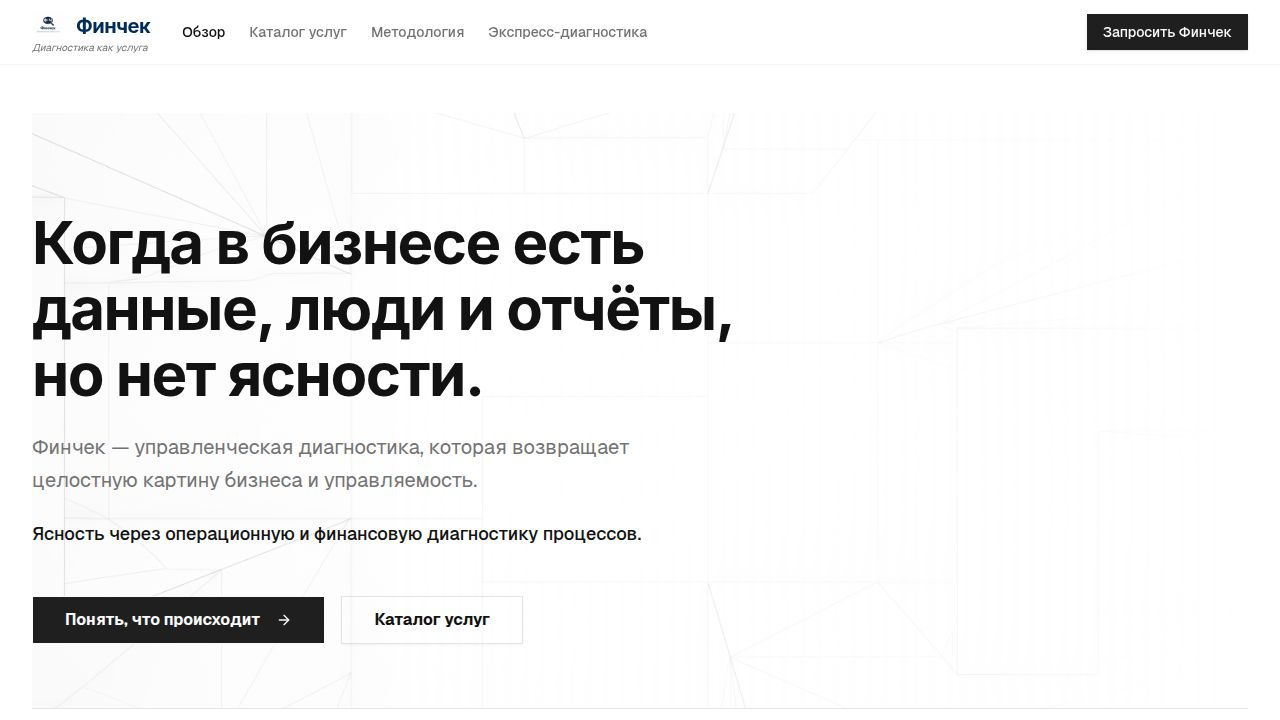
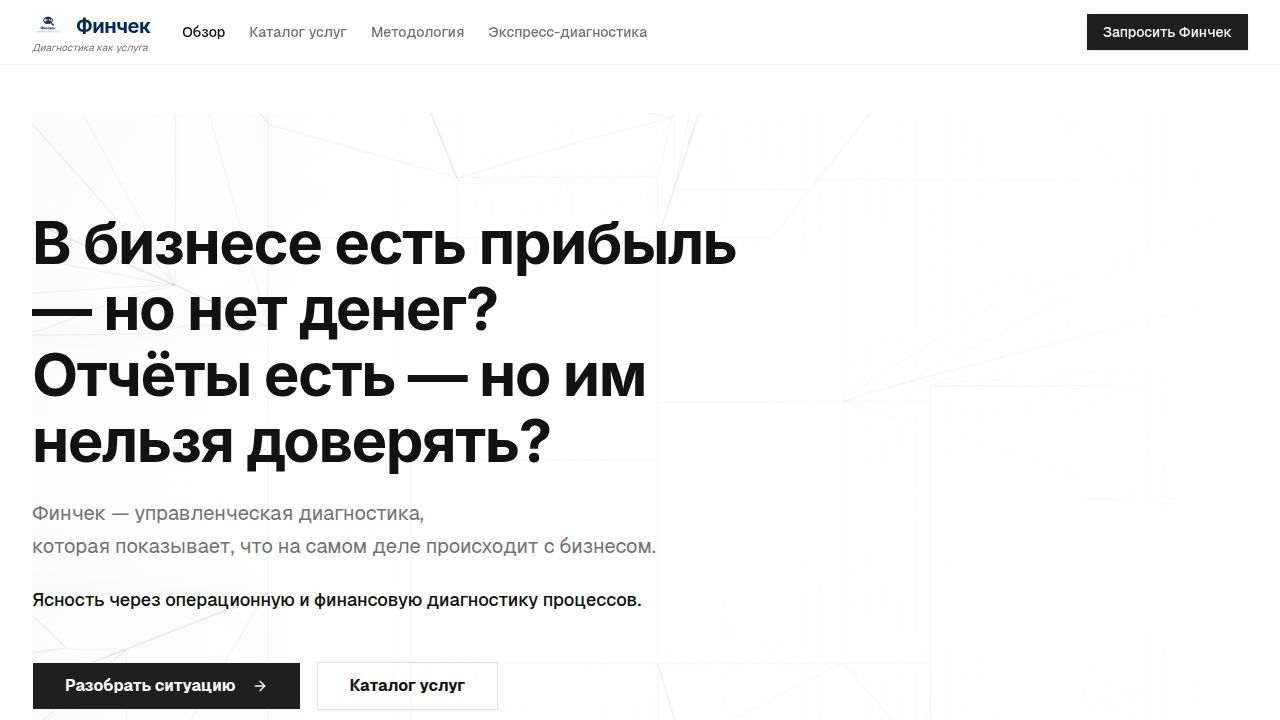
Update website's main page content and structure for better clarity
Modify the Home page by updating hero section text, CTA button, symptom list, and rearranging content blocks to enhance user understanding and engagement.

Replit-Commit-Author: Agent
Replit-Commit-Session-Id: 37a254d2-f206-4e6f-9d23-69abc5b6ef7e
Replit-Commit-Checkpoint-Type: full_checkpoint
Replit-Commit-Event-Id: 61114207-7028-41ed-9d0c-319ad99fae61
Replit-Commit-Screenshot-Url: https://storage.googleapis.com/screenshot-production-us-central1/8d6f941a-e7a3-48e3-bfbf-0671b2a4fc34/37a254d2-f206-4e6f-9d23-69abc5b6ef7e/rhoAu9e
Replit-Helium-Checkpoint-Created: true

diff --git a/client/src/pages/Home.tsx b/client/src/pages/Home.tsx
@@ -52,29 +52,35 @@ export default function Home() {
         />
         <div className="max-w-3xl flex flex-col gap-6">
           <h1 className="text-4xl md:text-6xl font-bold tracking-tight text-balance leading-[1.1]">
-            Когда в бизнесе есть данные, люди и отчёты, <br/>но нет ясности.
+            В бизнесе есть прибыль — но нет денег? <br/>Отчёты есть — но им нельзя доверять?
           </h1>
           <p className="text-xl text-muted-foreground max-w-2xl leading-relaxed">
-            Финчек — управленческая диагностика, которая возвращает целостную картину бизнеса и управляемость.
+            Финчек — управленческая диагностика,<br/>которая показывает, что на самом деле происходит с бизнесом.
           </p>
           <p className="text-lg font-medium">
             Ясность через операционную и финансовую диагностику процессов.
           </p>
-          <div className="flex flex-wrap items-center gap-4 mt-6">
-            <Button 
-              size="lg" 
-              className="rounded-none font-bold px-8 h-12 text-base" 
-              data-testid="button-understand"
-              onClick={scrollToContacts}
-            >
-              Понять, что происходит
-              <ArrowRight className="ml-2 h-4 w-4" />
-            </Button>
-            <Link href="/catalog">
-              <Button variant="outline" size="lg" className="rounded-none font-bold px-8 h-12 text-base" data-testid="button-catalog">
-                Каталог услуг
+          <div className="flex flex-col gap-4 mt-6">
+            <div className="flex flex-wrap items-center gap-4">
+              <Button 
+                size="lg" 
+                className="rounded-none font-bold px-8 h-12 text-base" 
+                data-testid="button-understand"
+                onClick={scrollToContacts}
+              >
+                Разобрать ситуацию
+                <ArrowRight className="ml-2 h-4 w-4" />
               </Button>
-            </Link>
+              <Link href="/catalog">
+                <Button variant="outline" size="lg" className="rounded-none font-bold px-8 h-12 text-base" data-testid="button-catalog">
+                  Каталог услуг
+                </Button>
+              </Link>
+            </div>
+            <p className="text-sm text-muted-foreground max-w-lg mt-2">
+              Вы не обязаны сразу заказывать большую работу.<br/>
+              Можно начать с экспресс-диагностики и остановиться на этом.
+            </p>
           </div>
         </div>
       </section>
@@ -93,31 +99,27 @@ export default function Home() {
           <ul className="space-y-6">
             <li className="flex gap-4 items-start">
               <AlertTriangle className="w-5 h-5 text-primary shrink-0 mt-1" />
-              <span className="text-lg font-medium leading-tight">отчёты есть, но нет уверенности</span>
+              <span className="text-lg font-medium leading-tight">прибыль есть → денег нет</span>
             </li>
             <li className="flex gap-4 items-start">
               <AlertTriangle className="w-5 h-5 text-primary shrink-0 mt-1" />
-              <span className="text-lg font-medium leading-tight">цифры противоречат друг другу</span>
+              <span className="text-lg font-medium leading-tight">отчёты противоречат друг другу</span>
             </li>
             <li className="flex gap-4 items-start">
               <AlertTriangle className="w-5 h-5 text-primary shrink-0 mt-1" />
-              <span className="text-lg font-medium leading-tight">решения принимаются интуитивно</span>
+              <span className="text-lg font-medium leading-tight">дебиторка растёт быстрее выручки</span>
             </li>
             <li className="flex gap-4 items-start">
               <AlertTriangle className="w-5 h-5 text-primary shrink-0 mt-1" />
-              <span className="text-lg font-medium leading-tight">цена ошибки растёт</span>
-            </li>
-            <li className="flex gap-4 items-start">
-              <AlertTriangle className="w-5 h-5 text-primary shrink-0 mt-1" />
-              <span className="text-lg font-medium leading-tight">рост есть, но система не выдерживает</span>
+              <span className="text-lg font-medium leading-tight">решения принимаются "на ощущениях"</span>
             </li>
           </ul>
         </div>
       </section>
 
       {/* Блок: Что такое управленческая диагностика */}
-      <section className="border-t pt-16 grid md:grid-cols-2 gap-16">
-        <div className="space-y-8">
+      <section className="border-t pt-16">
+        <div className="space-y-8 max-w-3xl">
           <div>
             <h2 className="text-sm font-bold uppercase tracking-widest text-muted-foreground mb-4 font-mono">Определение</h2>
             <h3 className="text-3xl font-bold tracking-tight mb-6">Это:</h3>
@@ -137,31 +139,6 @@ export default function Home() {
               <li className="flex gap-3 items-center text-lg">
                 <CheckCircle2 className="w-5 h-5 text-primary shrink-0" />
                 <span>восстановление логики</span>
-              </li>
-            </ul>
-          </div>
-        </div>
-
-        <div className="space-y-8">
-          <div>
-            <h2 className="text-sm font-bold uppercase tracking-widest text-muted-foreground mb-4 font-mono text-destructive">Границы</h2>
-            <h3 className="text-3xl font-bold tracking-tight mb-6">Это не:</h3>
-            <ul className="space-y-4">
-              <li className="flex gap-3 items-center text-lg opacity-80">
-                <XCircle className="w-5 h-5 text-destructive shrink-0" />
-                <span>внедрение</span>
-              </li>
-              <li className="flex gap-3 items-center text-lg opacity-80">
-                <XCircle className="w-5 h-5 text-destructive shrink-0" />
-                <span>аутсорсинг управления</span>
-              </li>
-              <li className="flex gap-3 items-center text-lg opacity-80">
-                <XCircle className="w-5 h-5 text-destructive shrink-0" />
-                <span>управление вместо собственника</span>
-              </li>
-              <li className="flex gap-3 items-center text-lg opacity-80">
-                <XCircle className="w-5 h-5 text-destructive shrink-0" />
-                <span>обещание финансового результата</span>
               </li>
             </ul>
           </div>
@@ -281,6 +258,35 @@ export default function Home() {
             <li className="flex gap-3 items-start">
               <ShieldAlert className="w-6 h-6 text-destructive shrink-0 mt-0.5" />
               <span>решения остаются за собственником</span>
+            </li>
+          </ul>
+        </div>
+      </section>
+
+      {/* Блок: Границы */}
+      <section className="border-t pt-16 grid md:grid-cols-2 gap-16">
+        <div>
+          <h2 className="text-sm font-bold uppercase tracking-widest text-muted-foreground mb-4 font-mono text-destructive">Границы</h2>
+          <h3 className="text-3xl font-bold tracking-tight mb-6">Это не:</h3>
+        </div>
+        
+        <div className="space-y-6">
+          <ul className="space-y-4">
+            <li className="flex gap-3 items-center text-lg opacity-80">
+              <XCircle className="w-5 h-5 text-destructive shrink-0" />
+              <span>внедрение</span>
+            </li>
+            <li className="flex gap-3 items-center text-lg opacity-80">
+              <XCircle className="w-5 h-5 text-destructive shrink-0" />
+              <span>аутсорсинг управления</span>
+            </li>
+            <li className="flex gap-3 items-center text-lg opacity-80">
+              <XCircle className="w-5 h-5 text-destructive shrink-0" />
+              <span>управление вместо собственника</span>
+            </li>
+            <li className="flex gap-3 items-center text-lg opacity-80">
+              <XCircle className="w-5 h-5 text-destructive shrink-0" />
+              <span>обещание финансового результата</span>
             </li>
           </ul>
         </div>
